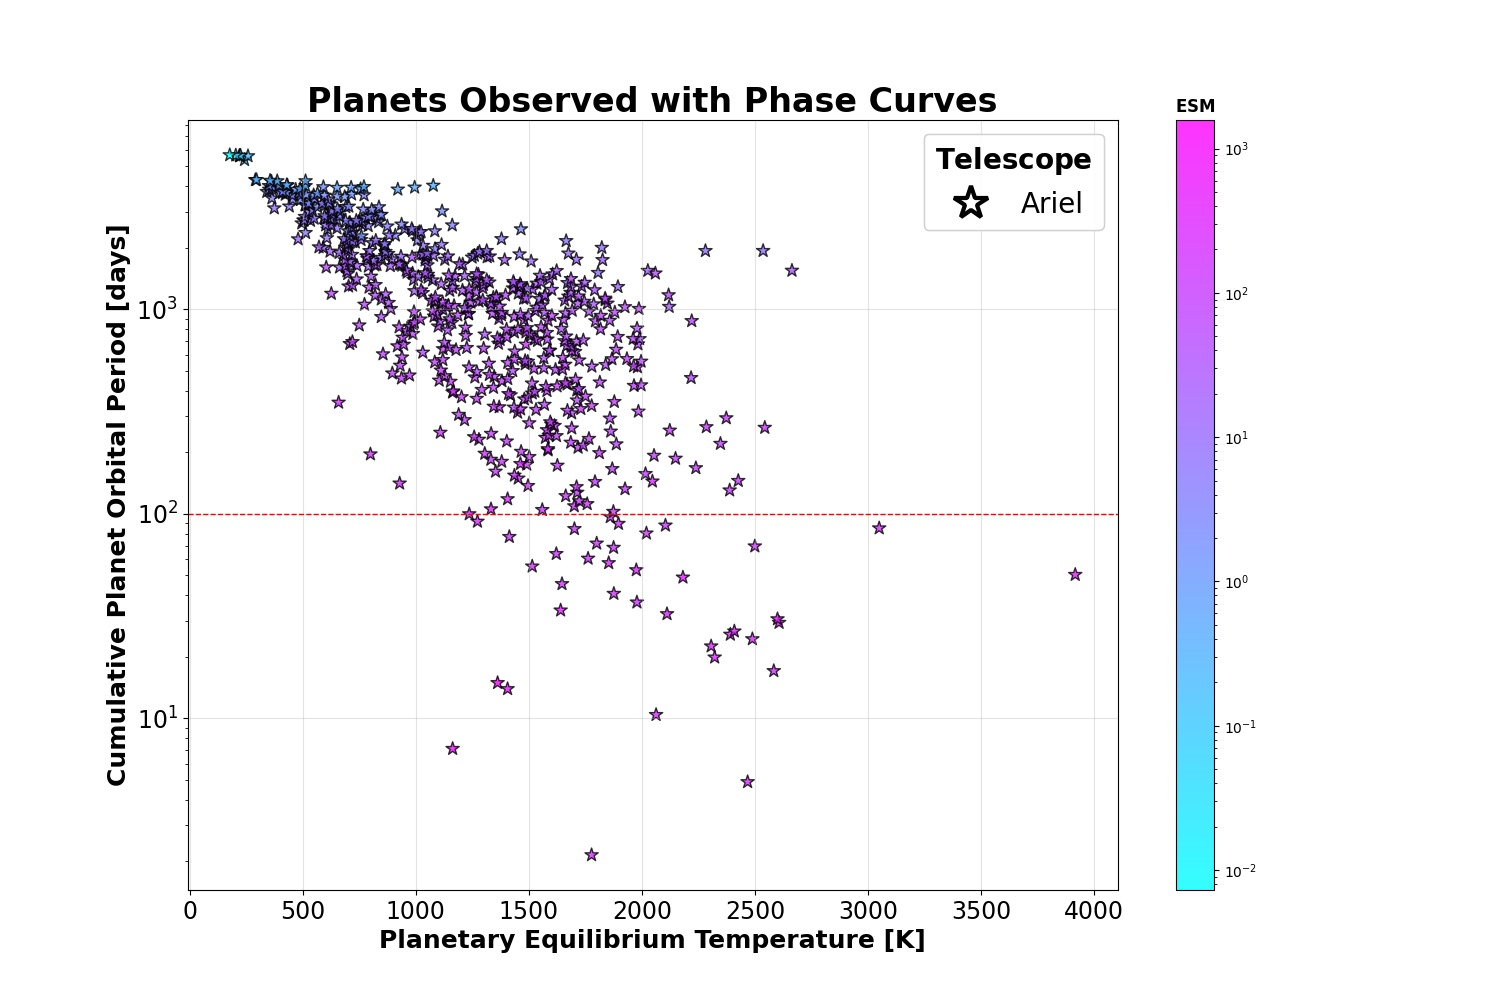
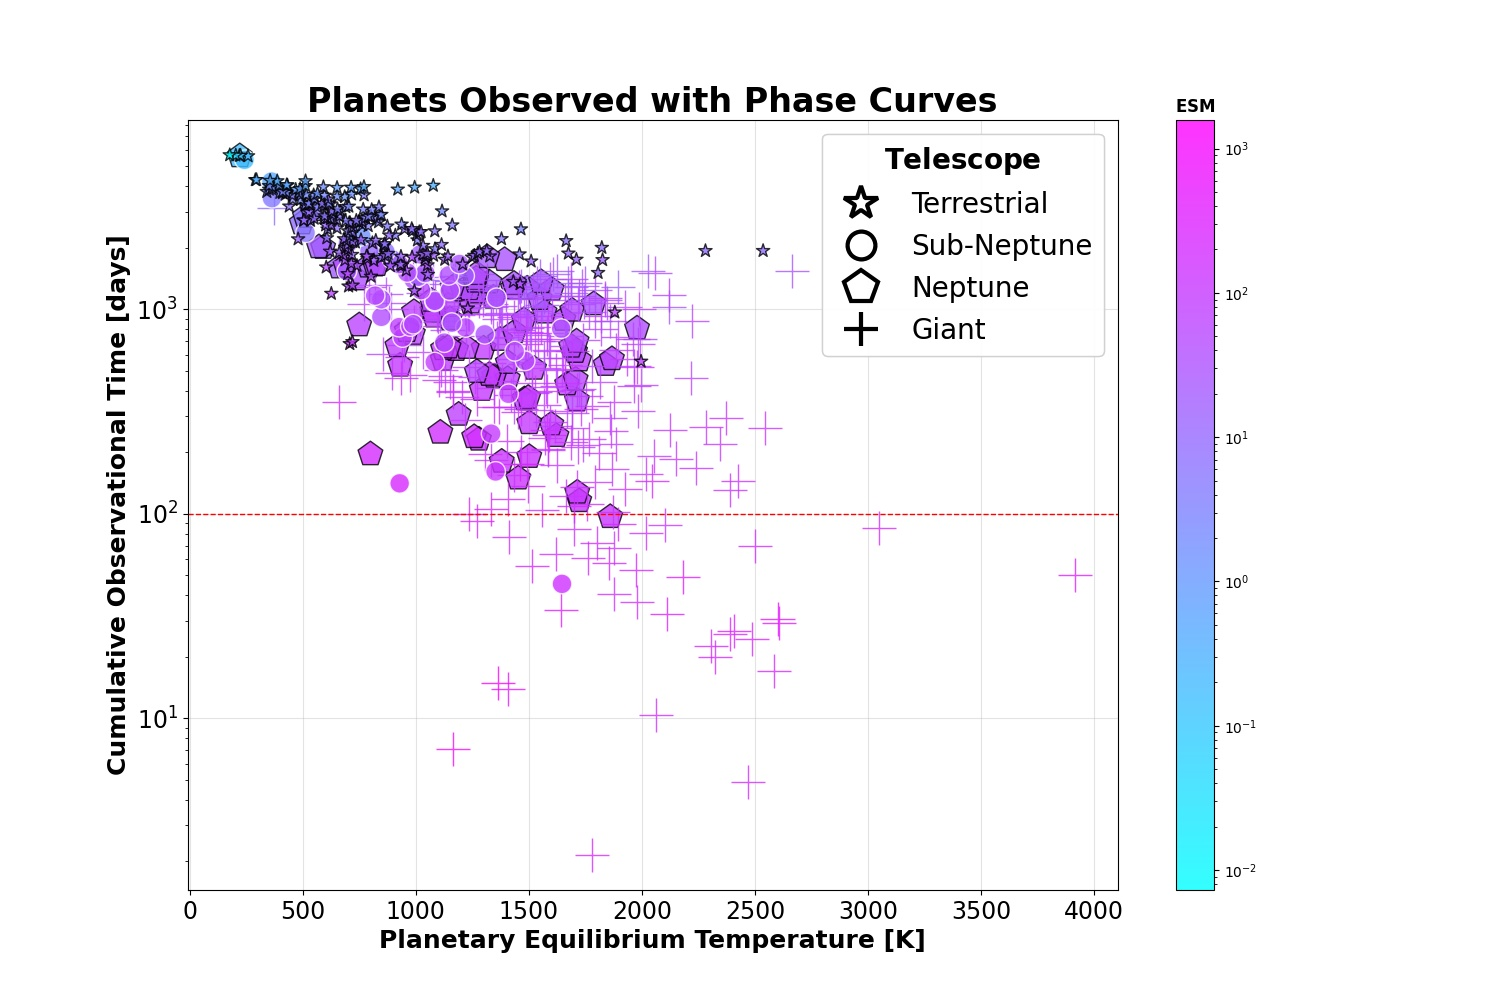
4/23 7:14

diff --git a/Ariel_Cumulative_Period.py b/Ariel_Cumulative_Period.py
@@ -8,13 +8,29 @@ print(min_,max_)
 # cmap='viridis_r'
 cmap = 'cool'
 
-Ariel_plot = ax.scatter(ariel["Planet Temperature [K]"], ariel['Cumulative time (days)'],
-                        alpha=0.8, s = 100, c = ariel["ESM"], marker="*",
+Ariel_terr = ax.scatter(ariel_terrestrial["Planet Temperature [K]"], ariel_terrestrial['Cumulative time (days)'],
+                        alpha=0.8, s = 100, c = ariel_terrestrial["ESM"], marker="*",
                         edgecolor='black', cmap=cmap,norm=matplotlib.colors.LogNorm( vmin=min_, vmax=max_),
-                        linewidths=1, label = "Ariel", zorder = 1)
+                        linewidths=1, label = "Terrestrial", zorder = 4)
+
+Ariel_subnep = ax.scatter(ariel_subnep["Planet Temperature [K]"], ariel_subnep['Cumulative time (days)'],
+                        alpha=0.8, s = 200, c = ariel_subnep["ESM"], marker="o",
+                        edgecolor='white', cmap=cmap,norm=matplotlib.colors.LogNorm( vmin=min_, vmax=max_),
+                        linewidths=1, label = "SubNeptune", zorder = 3)
+
+Ariel_nept = ax.scatter(ariel_nep["Planet Temperature [K]"], ariel_nep['Cumulative time (days)'],
+                        alpha=0.8, s = 350, c = ariel_nep["ESM"], marker="p",
+                        edgecolor='black', cmap=cmap,norm=matplotlib.colors.LogNorm( vmin=min_, vmax=max_),
+                        linewidths=1, label = "Neptune", zorder = 2)
+
+Ariel_giant = ax.scatter(ariel_giant["Planet Temperature [K]"], ariel_giant['Cumulative time (days)'],
+                        alpha=0.8, s = 600, c = ariel_giant["ESM"], marker="+",
+                        cmap=cmap,norm=matplotlib.colors.LogNorm( vmin=min_, vmax=max_),
+                        linewidths=1, label = "Giant", zorder = 2)
+
 
 # ax.set_clim(min_, max_)
-clb = fig.colorbar(Ariel_plot, ax=ax)  # .set_label('$\\bf{ESM} $',rotation=270,fontsize=15)
+clb = fig.colorbar(Ariel_terr, ax=ax)  # .set_label('$\\bf{ESM} $',rotation=270,fontsize=15)
 clb.ax.set_title('$\\bf{ESM} $')
 
 ax.axhline(100, color='r', linestyle='dashed', linewidth=1, alpha=1)
@@ -25,7 +41,13 @@ ax.axhline(100, color='r', linestyle='dashed', linewidth=1, alpha=1)
 
 from matplotlib.lines import Line2D
 
-legend_elements = [Line2D([0], [0], marker='*', color='w', label='Ariel',
+legend_elements = [Line2D([0], [0], marker='*', color='w', label='Terrestrial',
+                          markerfacecolor='none', markeredgecolor='black', mew=3, markersize=25),
+                    Line2D([0], [0], marker='o', color='w', label='Sub-Neptune',
+                          markerfacecolor='none', markeredgecolor='black', mew=3, markersize=20),
+                    Line2D([0], [0], marker='p', color='w', label='Neptune',
+                          markerfacecolor='none', markeredgecolor='black', mew=3, markersize=25),
+                    Line2D([0], [0], marker='+', color='w', label='Giant',
                           markerfacecolor='none', markeredgecolor='black', mew=3, markersize=25)
                    ]
 
@@ -41,7 +63,7 @@ ax = plt.gca().add_artist(first_legend)
 
 plt.grid(True, alpha=0.35)
 plt.xlabel("Planetary Equilibrium Temperature [K]", fontsize=18, fontweight='bold')
-plt.ylabel("Cumulative Planet Orbital Period [days]", fontsize=18, fontweight='bold')
+plt.ylabel("Cumulative Observational Time [days]", fontsize=18, fontweight='bold')
 plt.title("Planets Observed with Phase Curves", fontsize=24, fontweight='bold')
 plt.xticks(fontsize=17)
 plt.yticks(fontsize=17)

diff --git a/Ariel_Temperature_Ecc.py b/Ariel_Temperature_Ecc.py
@@ -1,3 +1,5 @@
+import matplotlib.pyplot as plt
+
 from phasecurve_plot_cheryl import *
 import matplotlib
 
@@ -7,25 +9,23 @@ min_, max_ = ariel.ESM.min(), ariel.ESM.max()
 print(min_,max_)
 # cmap='viridis_r'
 cmap = 'cool'
-ax.axhline(3, color='red', linestyle='dashed', linewidth=2, alpha=0.75, zorder = 0)
 
-
-Ariel_terr = ax.scatter(ariel_terrestrial["Planet Temperature [K]"], ariel_terrestrial['Planet Period [days]'],
+Ariel_terr = ax.scatter(ariel_terrestrial["Planet Temperature [K]"], ariel_terrestrial['Eccentricity'],
                         alpha=0.8, s = 100, c = ariel_terrestrial["ESM"], marker="*",
                         edgecolor='black', cmap=cmap,norm=matplotlib.colors.LogNorm( vmin=min_, vmax=max_),
                         linewidths=1, label = "Terrestrial", zorder = 4)
 
-Ariel_subnep = ax.scatter(ariel_subnep["Planet Temperature [K]"], ariel_subnep['Planet Period [days]'],
+Ariel_subnep = ax.scatter(ariel_subnep["Planet Temperature [K]"], ariel_subnep['Eccentricity'],
                         alpha=0.8, s = 200, c = ariel_subnep["ESM"], marker="o",
                         edgecolor='white', cmap=cmap,norm=matplotlib.colors.LogNorm( vmin=min_, vmax=max_),
                         linewidths=1, label = "SubNeptune", zorder = 3)
 
-Ariel_nept = ax.scatter(ariel_nep["Planet Temperature [K]"], ariel_nep['Planet Period [days]'],
+Ariel_nept = ax.scatter(ariel_nep["Planet Temperature [K]"], ariel_nep['Eccentricity'],
                         alpha=0.8, s = 350, c = ariel_nep["ESM"], marker="p",
                         edgecolor='black', cmap=cmap,norm=matplotlib.colors.LogNorm( vmin=min_, vmax=max_),
                         linewidths=1, label = "Neptune", zorder = 2)
 
-Ariel_giant = ax.scatter(ariel_giant["Planet Temperature [K]"], ariel_giant['Planet Period [days]'],
+Ariel_giant = ax.scatter(ariel_giant["Planet Temperature [K]"], ariel_giant['Eccentricity'],
                         alpha=0.8, s = 600, c = ariel_giant["ESM"], marker="+",
                         cmap=cmap,norm=matplotlib.colors.LogNorm( vmin=min_, vmax=max_),
                         linewidths=1, label = "Giant", zorder = 2)
@@ -34,11 +34,6 @@ Ariel_giant = ax.scatter(ariel_giant["Planet Temperature [K]"], ariel_giant['Pla
 # ax.set_clim(min_, max_)
 clb = fig.colorbar(Ariel_terr, ax=ax)  # .set_label('$\\bf{ESM} $',rotation=270,fontsize=15)
 clb.ax.set_title('$\\bf{ESM} $')
-
-
-
-
-############################################################33
 
 # Create a legend for the first line.
 # first_legend = plt.legend(handles=[Spitzer_plot,Hubble_plot, JWST_plot], loc='upper right',
@@ -69,13 +64,14 @@ ax = plt.gca().add_artist(first_legend)
 
 plt.grid(True, alpha=0.35)
 plt.xlabel("Planetary Equilibrium Temperature [K]", fontsize=18, fontweight='bold')
-plt.ylabel("Planet Period [days]", fontsize=18, fontweight='bold')
+plt.ylabel("Eccentricity", fontsize=18, fontweight='bold')
 plt.title("Planets Observed with Phase Curves", fontsize=24, fontweight='bold')
 plt.xticks(fontsize=17)
 plt.yticks(fontsize=17)
-plt.yscale('log')
+plt.gca().set_ylim(top=1)
+#plt.yscale('log')
 #plt.xscale('log')
-# plt.ylim([0,105])
-plt.savefig(save_dir + 'Ariel-Phasecurves-ESM-Period.jpg')
+#plt.ylim([0,1])
+plt.savefig(save_dir+'Ariel-Phasecurves-T-Ecc.jpg')
 
 plt.show()

diff --git a/phasecurve_plot_cheryl.py b/phasecurve_plot_cheryl.py
@@ -34,7 +34,7 @@ pc_telescope = pd.merge(pc_df, telescopes, how='left', left_on='pl_name', right_
 #Drop useless rows.
 pc_telescope = pc_telescope.drop(pc_telescope[(pc_telescope['JWST'] == 'No') & (pc_telescope['Spitzer'] == 'No')  & (pc_telescope['Hubble'] == 'No')].index)
 
-print(pc_telescope.query('pl_orbeccen > 0.09'))
+#(pc_telescope.query('pl_orbeccen > 0.09'))
 
 pc_telescope['ESM'] = ESM(1.1*pc_telescope['pl_eqt'], pc_telescope['st_teff'],pc_telescope['pl_radj'] ,pc_telescope['st_rad'],pc_telescope['sy_kmag'])
 
@@ -47,13 +47,21 @@ ariel['ESM'] = ESM(1.1*ariel['Planet Temperature [K]'], ariel["Star Temperature 
 
 ariel['pl_g'] = (G*M_jup*ariel["Planet Mass [Mj]"])/ ((r_jup*ariel["Planet Radius [Rj]"])**2)
 
-#print(ariel[columns_ariel].head())
+## sort ariel into different mass range:
+ariel_terrestrial = ariel.loc[ariel['Planet Mass [Mj]'] <= 0.16058]
+ariel_subnep = ariel.loc[(ariel['Planet Mass [Mj]'] >= 0.16058)
+                & (ariel['Planet Mass [Mj]'] <= 0.312251)]
+ariel_nep = ariel.loc[(ariel['Planet Mass [Mj]'] <= 0.624503)
+                & (ariel['Planet Mass [Mj]'] >= 0.312251)]
+ariel_giant = ariel.loc[ariel['Planet Mass [Mj]'] >= 0.624503]
 
-from JWST_Phasecurve_Graph import *
-from JWST_Phase_Curve_pg import *
-from JWST_Phasecurve_prj import *
-from JWST_Ariel_Phasecurve_PG_Ecc import *
-from JWST_Ariel_Period_Graph import *
-from JWST_Ariel_Fig3_PR_PP_PT import *
-from JWST_Ariel_ESM_Period_T import *
-from Ariel_Cumulative_Period import *
+
+#from JWST_Phasecurve_Graph import *
+#from JWST_Phase_Curve_pg import *
+#from JWST_Phasecurve_prj import *
+#from JWST_Ariel_Phasecurve_PG_Ecc import *
+#from JWST_Ariel_Period_Graph import *
+#from JWST_Ariel_Fig3_PR_PP_PT import *
+#from JWST_Ariel_ESM_Period_T import *
+#from Ariel_Cumulative_Period import *
+from Ariel_Temperature_Ecc import *

diff --git a/JWST_Ariel_ESM_Period_T.py b/JWST_Ariel_ESM_Period_T.py
@@ -80,6 +80,8 @@ for x, y, name in zip(pc_telescope.query("pl_name == 'HD 189733 b'")["pl_eqt"],
                  ha='center')  # horizontal alignment can be left, right or center
 '''
 ################################################################################3
+ax.axhline(3, color='blue', linestyle='dashed', linewidth=2, alpha=0.75)
+
 
 from matplotlib.offsetbox import OffsetImage, AnnotationBbox
 
@@ -135,7 +137,7 @@ ax = plt.gca().add_artist(first_legend)
 
 plt.grid(True, alpha=0.35)
 plt.xlabel("Planetary Equilibrium Temperature [K]", fontsize=18, fontweight='bold')
-plt.ylabel("Planet Orbital Period [days]", fontsize=18, fontweight='bold')
+plt.ylabel("Planet Period [days]", fontsize=18, fontweight='bold')
 plt.title("Planets Observed with Phase Curves", fontsize=24, fontweight='bold')
 plt.xticks(fontsize=17)
 plt.yticks(fontsize=17)

diff --git a/table_columns_name.py b/table_columns_name.py
@@ -114,6 +114,9 @@ columns_ariel = [
 planet_ariel = ariel["Planet Name"].tolist()
 ariel['Telescope'] = ['Ariel']*len(planet_ariel)
 
+
+
+
 SS_eqt = [279,  # Earth
           122,  # Jupiter
           51]  # Neptune
